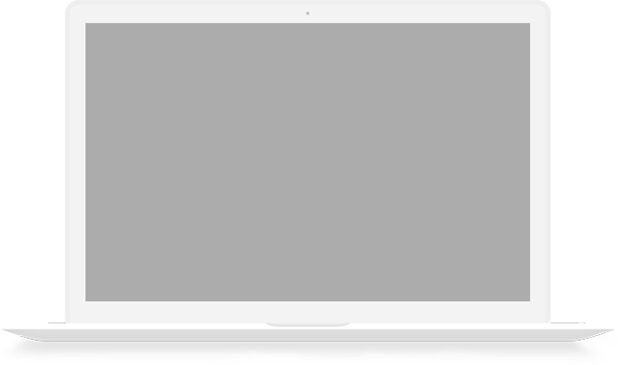
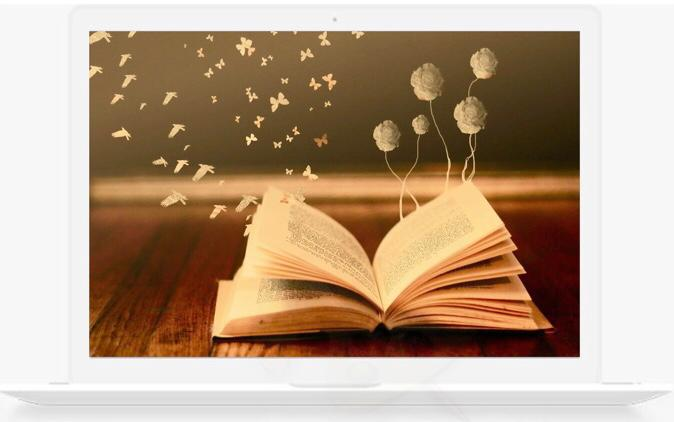
Index.php modified

diff --git a/index.php b/index.php
@@ -109,7 +109,7 @@
                              data-frames='[{"delay":600,"speed":2000,"frame":"0","from":"sX:1;sY:1;opacity:0;fb:40px;","to":"o:1;fb:0;","ease":"Power4.easeInOut"},{"delay":"wait","speed":300,"frame":"999","to":"opacity:0;fb:0;","ease":"Power3.easeInOut"}]'
                              data-textAlign="['center','center','center','center']"
                              style="z-index:99; max-width: 960px">
-                            <a href="#features" class="scroll btn-setting btn-hvr-setting-main btn-summer-sky color-white btn-hvr link">get started
+                            <a href="#features" class="scroll btn-setting btn-hvr-setting-main btn-summer-sky color-white btn-hvr link">coming soon
                                 <span class="btn-hvr-setting btn-hvr-white">
 						     <span class="btn-hvr-setting-inner">
 							 <span class="btn-hvr-effect"></span>
@@ -137,26 +137,27 @@
             <div class="row">
                 <div class="container">
                     <div class="main-title wow fadeIn" data-wow-delay="300ms">
-                        <h5> Amazing creativity </h5>
-                        <h2> Adorable features </h2>
-                        <p>Curabitur mollis bibendum luctus. Duis suscipit vitae dui sed suscipit. Vestibulum auctor nunc vitae diam eleifend, in maximus metus sollicitudin. Quisque vitae sodales lectus. Nam porttitor justo sed mi finibus, vel tristique risus faucibus. </p>
+                        <h5 style="text-transform: none !important;"> Festival de Literatură  </h5>
+                        <h2> Viviria </h2>
+                        <p><b>De ce Viviria?</b> Pentru că este plin de viață: aici vei întâlni adolescenți ca tine, veseli, creativi, deschiși.  <br> <br> <b>De ce festival?</b> Pentru că festival înseamnă oameni împreună, interacționând neîncetat, indiferent dacă au cărți și articole publicate sau doar câteva drafturi în laptop. <br><br> <b>De ce Viviria Festival?</b> Pentru că poate fi ocazia ta să scoți din buzunar ideile pe care le ai, să le pui pe foaie și cu ajutorul mentorilor întâlniți aici să-ți definești stilul în care scrii. Proză, poezie, jurnalism sau scenaristică? Sau poate toate? Înscrie-te la Viviria și află ce ți se potrivește!
+                        </p>
                     </div>
                 </div>
             </div>
             <div class="row align-items-center">
                 <div class="col-lg-6 col-md-6 col-sm-12 d-xs-none wow fadeInLeft">
                     <div class="text-center">
-                        <img alt="features" src="images/features2.png">
+                        <img alt="features" src="images/envelope.jpeg">
                     </div>
                 </div>
                 <div class="col-lg-5 col-md-6 col-sm-12 mx-auto wow fadeInRight">
                     <div class="feature-item mt-0">
                         <div class="laptop-features-icon">
-                            <span class="icon"><i class="ti ti-image color-summer-sky"></i></span>
+                            <span class="icon"><i class="ti ti-palette color-summer-sky"></i></span>
                         </div>
                         <div class="features-content">
-                            <h4 class="color-black font-weight-normal mb-10px">Unique Layout</h4>
-                            <p>A robust, multipurpose template built with modularity at the core.</p>
+                            <h4 class="color-black font-weight-normal mb-10px">Participanți</h4>
+                            <p>Participanții sunt ca mine și ca tine, liceeni care s-au apucat de scris și care vor să afle ce pot face mai departe cu gândurile neînțelese din Notes. </p>
                         </div>
                     </div>
                     <div class="feature-item">
@@ -164,8 +165,8 @@
                             <span class="icon"><i class="ti ti-timer color-yellow"></i></span>
                         </div>
                         <div class="features-content">
-                            <h4 class="color-black font-weight-normal mb-10px">Online Live Support</h4>
-                            <p>You can build your site in-browser with modular interface blocks.</p>
+                            <h4 class="color-black font-weight-normal mb-10px">Mentori</h4>
+                            <p>Mentorii sunt oameni care scriu de ceva timp și a căror muncă o găsești în publicații, în librării, în filme sau pe internet; experiența și curajul lor te pot inspira în ceea ce faci.</p>
                         </div>
                     </div>
                     <div class="feature-item mb-xs-0">
@@ -173,8 +174,8 @@
                             <span class="icon"><i class="ti ti-tablet color-green"></i></span>
                         </div>
                         <div class="features-content">
-                            <h4 class="color-black font-weight-normal mb-10px">Responsive Design</h4>
-                            <p>There are many variations of passages of Lorem Ipsum available.</p>
+                            <h4 class="color-black font-weight-normal mb-10px">Speakeri</h4>
+                            <p>Speakerii au nu doar experiență, dar și talentul să o împărtășească cu alții; sunt oameni dedicați, pe care îți va plăcea să-i asculți.</p>
                         </div>
                     </div>
 

diff --git a/header.php b/header.php
@@ -31,7 +31,7 @@
                         <li class="nav-item mega-menu active"> <a href="javascript:void(0)" class="nav-link link">Invitati </a> </li>
                         <li class="nav-item mega-menu active"> <a href="javascript:void(0)" class="nav-link link">Blog </a> </li>
                         <li class="nav-item mega-menu active"> <a href="javascript:void(0)" class="nav-link link">Contact </a> </li>                      
-                        <li class="nav-item mega-menu active"> <a href="javascript:void(0)" class="nav-link link"><span class="join-us-navbar">Alatura-te</span></a> </li>                      
+                        <li class="nav-item mega-menu active"> <a href="javascript:void(0)" class="nav-link link"><span class="join-us-navbar">coming soon</span></a> </li>                      
                     </ul>
                 </div>
 
